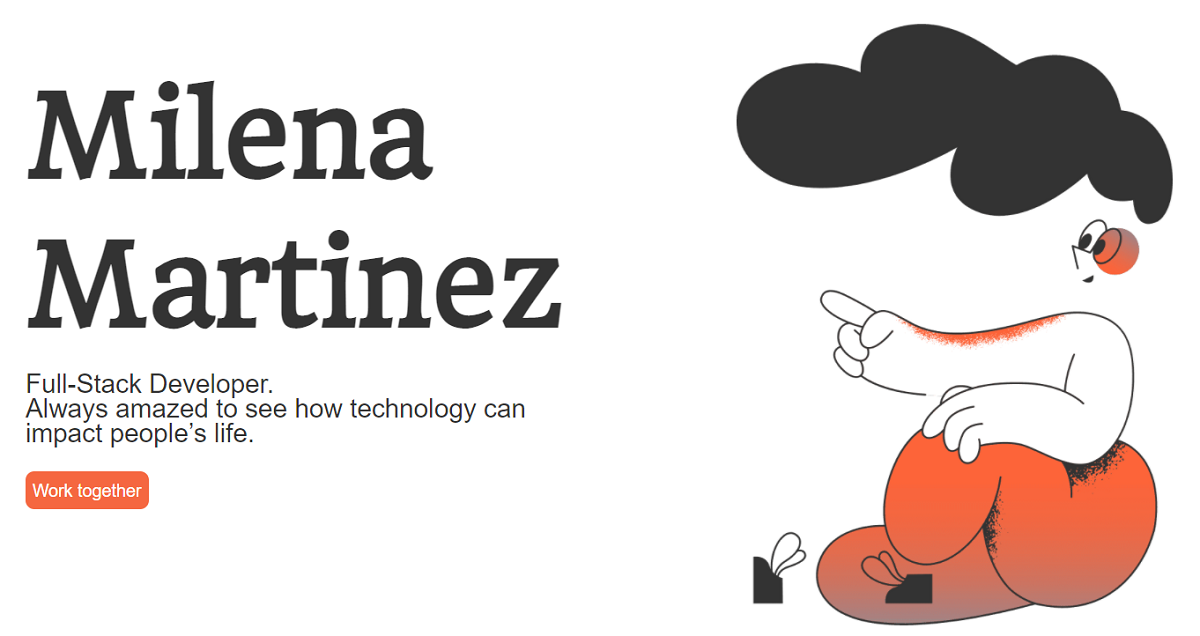
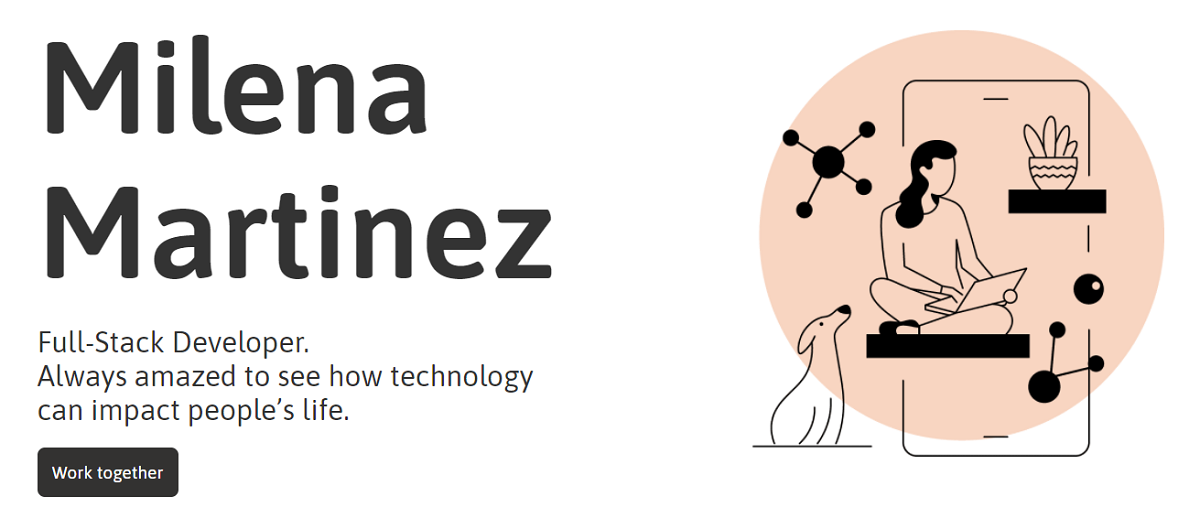
working on styling

diff --git a/src/styles/index.module.scss b/src/styles/index.module.scss
@@ -1,6 +1,5 @@
-@import url("https://fonts.googleapis.com/css2?family=Headland+One&display=swap");
 
-$button-color :  #F56740;
+$button-color :  rgba(244,103,64,0.8);
 $light-black:  #333231;
 
 .welcome-container > * {
@@ -12,23 +11,19 @@ $light-black:  #333231;
     justify-content: space-evenly;
     min-height: 60vh;
 
-    h1 {
-      font-family: 'Headland One', serif;
-    }
-
     button{
       border: none;
-      padding: 0.4em 0.4em;
+      padding: 1em 1em;
       border: none;
       border-radius: 0.5em;
-      background: $button-color;
+      background: $light-black;
        transform-style: preserve-3d;
       transition: all 175ms cubic-bezier(0, 0, 1, 1);
     }
 
 
     button:hover {
-      background: $light-black;
+      background: $button-color;
       transform: translate(0, 0.375em);
     }
     
@@ -46,6 +41,7 @@ $light-black:  #333231;
     a{
       text-decoration: none;
       color: white;
+      font-size: 1.2rem;
     }
 
 }
@@ -57,20 +53,14 @@ $light-black:  #333231;
     max-width: 500px;
     max-height: 500px;
 }
-.description h2{
-    white-space: nowrap;
-    overflow: hidden;
-}
+
 .name-font  {
-    font-family: 'Headland One', serif;
-    font-size:5rem;
+    font-size:7rem;
 }
 .about-me-font {
-  font-size: 1.5rem;
+  font-size: 2rem;
 
 } 
-
-
 .circle{
   max-width: 5px;
 }
@@ -82,7 +72,7 @@ $light-black:  #333231;
         max-width: 600px;
     }
     .name-font {
-        font-size:6.5rem;
+        font-size:9rem;
     }
     .image-homepage{
         max-width: 450px;
@@ -117,7 +107,7 @@ $light-black:  #333231;
   
   
   .shade2{
-    opacity: 0.4;
+    opacity: 0.3;
   }
   
   
@@ -140,14 +130,13 @@ $light-black:  #333231;
   
     
   }
-  @media (min-width: 320px) and (max-width: 480px) {
+  @media  (max-width: 480px) {
     .welcome-container{
-      //margin-top: 80px;
       align-items: center;
      max-height: 30vh;
     }
     .name-font  {
-      font-size:3.5rem;
+      font-size:4.5rem;
   }
   
   .image-homepage{
@@ -167,7 +156,7 @@ $light-black:  #333231;
     width: 400px;
     height: 400px;
     left: -200px;
-    bottom: 90px;
+    bottom: 110px;
   }
   
   

diff --git a/src/components/globalstyle.js b/src/components/globalstyle.js
@@ -2,9 +2,9 @@ import { createGlobalStyle } from 'styled-components';
 
 export const Global = createGlobalStyle`
 html {
-  @import url('https://fonts.googleapis.com/css2?family=Roboto:wght@300&display=swap');
-  @import url("https://fonts.googleapis.com/css2?family=Headland+One&display=swap");
-    font-family: 'Roboto', sans-serif;
+  
+
+  font-family: 'Asap', sans-serif;
     background-color: #ffffff;
     font-size: 100%;
     -ms-text-size-adjust: 100%;
@@ -102,7 +102,6 @@ html {
   kbd,
   pre,
   samp {
-    font-family: monospace, monospace;
     font-size: 1em;
   }
   figure {
@@ -193,7 +192,7 @@ html {
     font: inherit;
   }
   html {
-    font: 112.5%/1.45em georgia, serif;
+    font: 112.5%/1.45em;
     box-sizing: border-box;
     overflow-y: scroll;
   }
@@ -208,7 +207,6 @@ html {
   }
   body {
     color: hsla(0, 0%, 0%, 0.8);
-    font-family: sans-serif;
     font-weight: normal;
     word-wrap: break-word;
     font-kerning: normal;
@@ -239,8 +237,7 @@ html {
     margin-bottom: 1.45rem;
     color: inherit;
     text-rendering: optimizeLegibility;
-    font-family: 'Headland One', serif;
-    font-size: 2.25rem;
+    font-size: 4rem;
     line-height: 1.1;
   }
   h2 {
@@ -254,9 +251,8 @@ html {
     margin-bottom: 1.45rem;
     color: inherit;
     font-weight: bold;
-    font-family: 'Headland One', serif;
     text-rendering: optimizeLegibility;
-    font-size: 1.62671rem;
+    font-size: 2rem;
     line-height: 1.1;
   }
   h3 {
@@ -301,7 +297,7 @@ html {
     color: inherit;
     font-weight: bold;
     text-rendering: optimizeLegibility;
-    font-size: 0.85028rem;
+    font-size: 1rem;
     line-height: 1.1;
   }
   h6 {
@@ -381,6 +377,7 @@ html {
     padding-left: 0;
     padding-right: 0;
     padding-top: 0;
+    font-size: 1.5rem;
     margin-bottom: 1.45rem;
   }
   figure {

diff --git a/src/styles/contactForm.module.scss b/src/styles/contactForm.module.scss
@@ -1,4 +1,4 @@
-$button-color :  #F56740;
+$button-color :   rgba(244,103,64,0.8);
 $light-black:  #333231;
 $light-background: rgba(242, 102, 63, 0.5);
 
@@ -27,9 +27,10 @@ $light-background: rgba(242, 102, 63, 0.5);
     button{
         
         max-width: 100px;
-        background-color: $button-color;
+        background-color: $light-black;
         border: none;
-        padding: 0.4em 0.4em;
+        padding: 0.5em 0.5em;
+        font-size: 1.2rem;
         border: 2px solid #ffffff;
         border-radius: 0.5em;
         color: white;
@@ -39,7 +40,7 @@ $light-background: rgba(242, 102, 63, 0.5);
 
 
     button:hover {
-        background: $light-black;
+        background: $button-color;
         transform: translate(0, 0.375em);
         cursor: pointer;
       }

diff --git a/src/components/metadata.js b/src/components/metadata.js
@@ -34,7 +34,7 @@ const Metadata = ({ title, description }) => {
       <meta name="twitter:card" content="summary_large_image"/>
       <meta name="twitter:title" content="Mlena Martinez Portfolio"/>
       <link rel="preconnect" href="https://fonts.gstatic.com"/>
-       <link href="https://fonts.googleapis.com/css2?family=Headland+One&display=swap" rel="stylesheet"/>
+      <link href="https://fonts.googleapis.com/css2?family=Asap:wght@400;600&display=swap" rel="stylesheet"/>
        <link href="https://fonts.googleapis.com/css2?family=Roboto:ital,wght@0,300;1,300&display=swap" rel="stylesheet"></link>
       <meta name="twitter:image" content="https://www.milenamartinez.com/thumb.png"/>
       <html lang="en" dir="ltr" />

diff --git a/src/styles/projects.module.scss b/src/styles/projects.module.scss
@@ -12,7 +12,7 @@
     max-height: 202px;
     overflow: hidden;
     border-radius: 5px; 
-    transition: all .6s ease-in-out;
+    transition: all .8s ease-in-out;
     box-shadow: 0 4px 8px 0 rgba(0,0,0,0.2);
 
     
@@ -42,12 +42,15 @@
             display: flex;
             justify-content: space-between;
             align-items: center;
+            overflow: hidden;
+            
         }
          p{
              max-width: 220px;
-                font-size: smaller;
-                text-align: justify;
-                min-height: 50px;
+                font-size:1.2rem;
+                text-align:left;
+                min-height: 60px;
+                
          }
         
         img{

diff --git a/src/pages/index.js b/src/pages/index.js
@@ -24,8 +24,7 @@ return (
   <div className={homeStyles.welcomeContainer}>
     <div className={`${homeStyles.circle} ${homeStyles.xlarge} ${homeStyles.shade2}`}></div>
   <div className={homeStyles.description}>
-  <h2 className={homeStyles.nameFont}>Milena</h2>
-  <h2 className={homeStyles.nameFont}>Martinez</h2>
+  <h1 className={homeStyles.nameFont}>Milena <br/> Martinez</h1>
   <p className={homeStyles.aboutMeFont}>Full-Stack Developer. <br/>Always amazed to see how technology can impact people’s life.
 </p>
 <button><Link to="/contact">Work together</Link></button> 

diff --git a/src/styles/menu.module.scss b/src/styles/menu.module.scss
@@ -1,3 +1,4 @@
+
 .menu {
     position: fixed;
     top: 0;
@@ -23,12 +24,15 @@
     a {
       text-decoration: none;
       color: #333333;
+      padding: 1rem;
+      font-size: 1.5rem;
+      font-weight: bolder;
       transition: all 0.1s ease-in-out;
     }
 
     a:hover{
         cursor: pointer;
-        transform: scale(1.5);
+        transform: scale(1.7);
         text-decoration:underline #F46740;
     }
   }

diff --git a/src/pages/projects.js b/src/pages/projects.js
@@ -35,7 +35,7 @@ const ProjectsPage = () => {
   return (
     <div>
     <Metadata title="Projects" description="Page with all the projects I worked on"/>
-      <h1>My Latest Projects</h1>
+      <h1>My Latest Projects...</h1>
       <div className={projectsStyles.container}>
         {data.allMarkdownRemark.edges.map(e => (
         <div className={projectsStyles.card} key={e.node.frontmatter.title}>

diff --git a/src/styles/about.module.scss b/src/styles/about.module.scss
@@ -1,3 +1,4 @@
+$button-color :  rgba(244,103,64,0.8);
 .about-section > * {
   flex-grow: 1;
 }
@@ -5,6 +6,7 @@
 .about-section {
   display: flex;
   justify-content: center;
+  align-items: center;
 
   .first-section {
     min-width: 400px;
@@ -23,7 +25,7 @@
 
     a {
       display: inline-block;
-      color: #f46740;
+      color: $button-color;
       transition: all 0.2s ease-in-out;
     }
 

diff --git a/src/components/socialBar.js b/src/components/socialBar.js
@@ -28,11 +28,6 @@ const Social = () => {
                   <img src={resume} alt ="download resume"/>
                   </a> 
             </li>
-            <li>
-               <a href="https://icons8.com/"  target="_blank" rel="noreferrer">
-                  <img src={icons8} alt ="illustrations source"/>
-                  </a> 
-            </li>
         </ul>
         </>
     )

diff --git a/src/styles/header.module.scss b/src/styles/header.module.scss
@@ -13,8 +13,8 @@
 }
 
 .nav-item {
-  color: #999999;
-  font-size: 0.9rem;
+  color: #333333;
+  font-size: 1.2rem;
   margin-right: 1.3rem;
   text-decoration: none;
 }
@@ -24,8 +24,8 @@
 }
 
 .active-nav-item {
-  color: #333333;
-  font-size: 1rem;
+  color: #000000;
+  font-size: 1.5rem;
 }
 
 .button-menu {

diff --git a/src/styles/skills.module.scss b/src/styles/skills.module.scss
@@ -13,7 +13,7 @@
 
     li{
         display: flex;
-        font-size: 0.9rem;
+        font-size: 1.2rem;
         flex-direction: column;
         justify-content: space-between;
         align-items: center;
